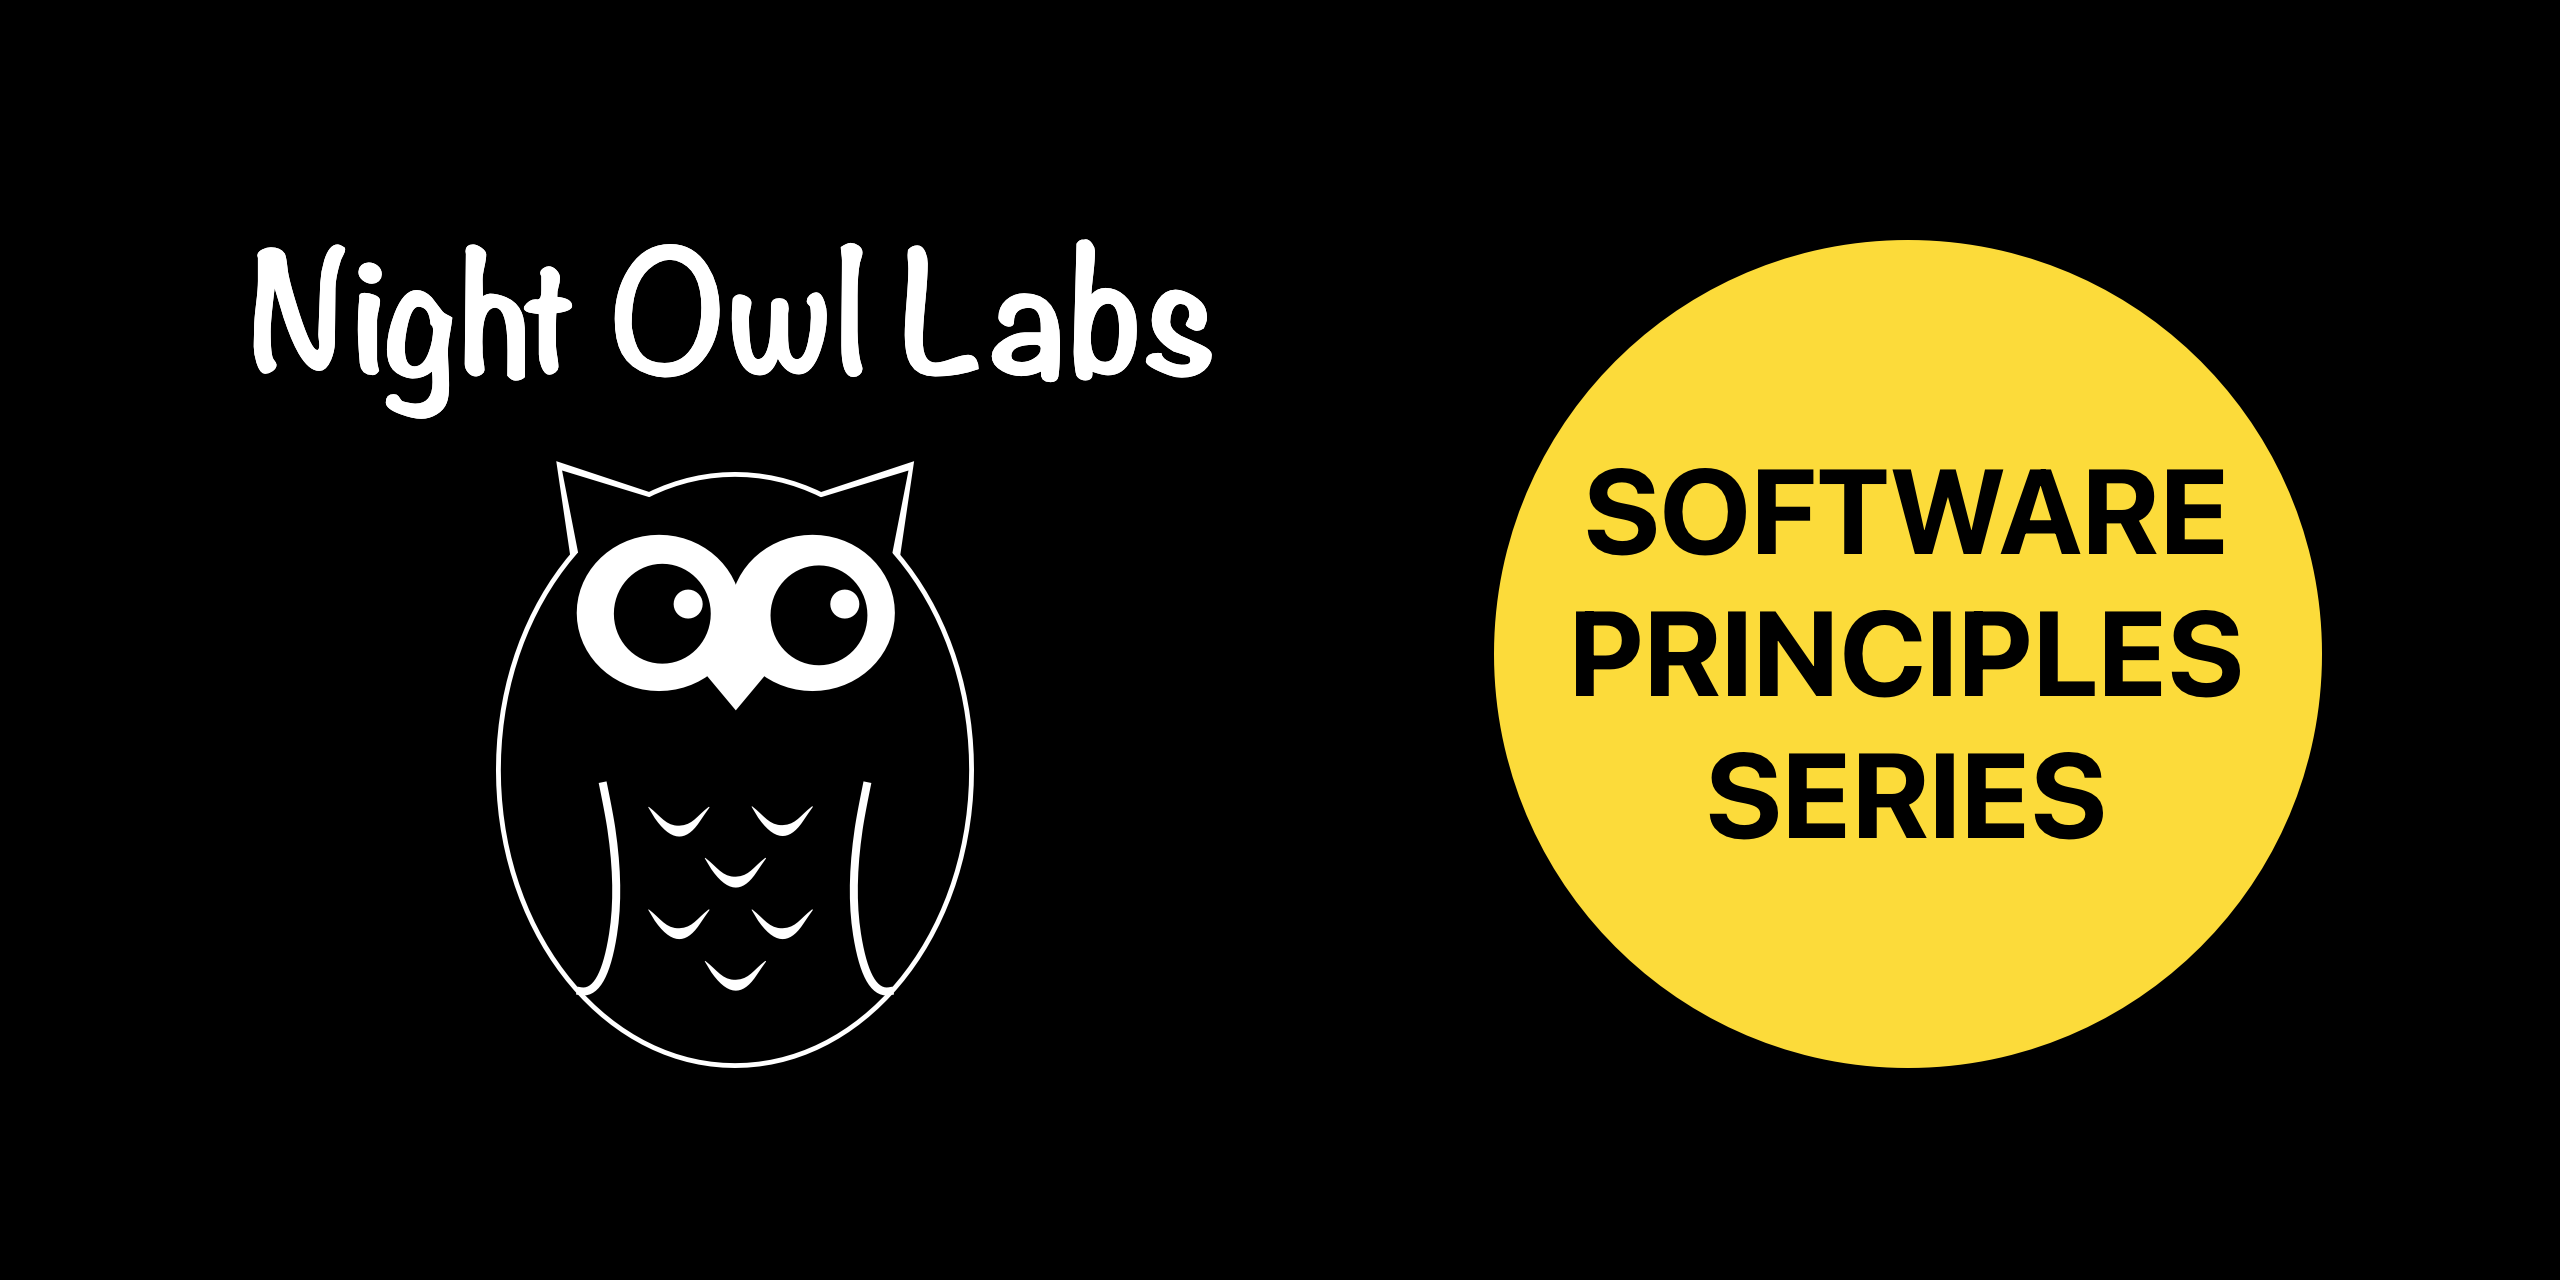
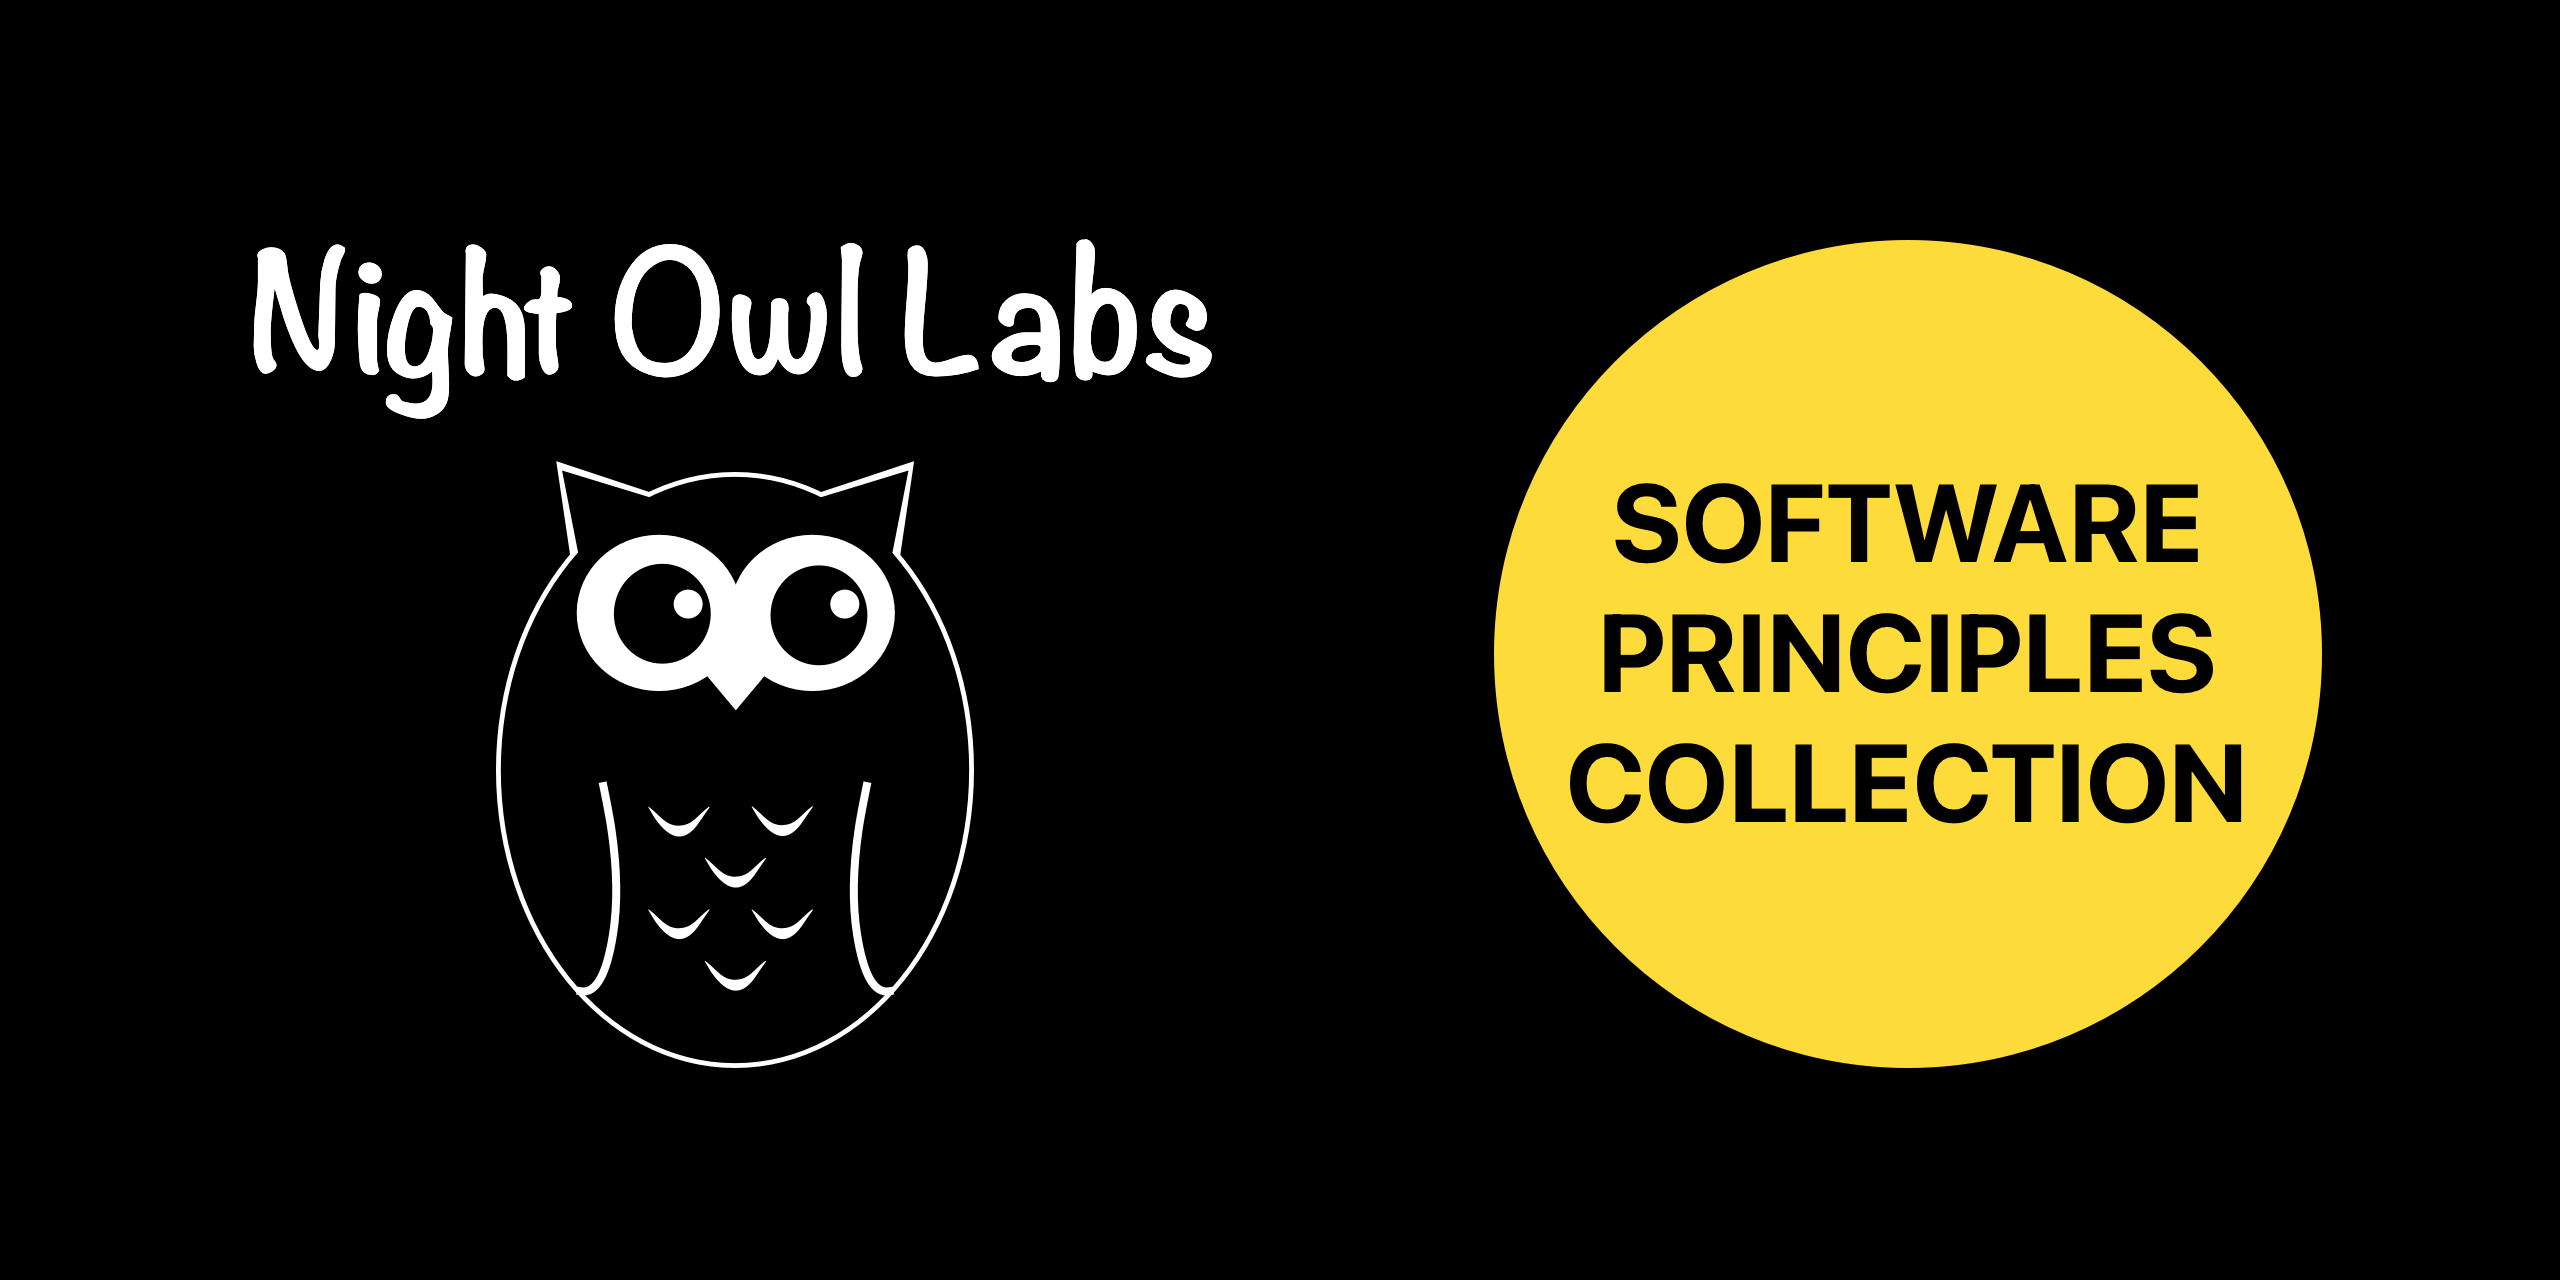
Update README

Changed region(s): [[0.5938, 0.4688, 0.875, 0.6562], [0.625, 0.3438, 0.875, 0.4375]]

diff --git a/README.md b/README.md
@@ -20,7 +20,7 @@
 
 <div align="center">
     <a href="https://github.com/Night-Owl-Labs/Software-Principles-Series" target="_blank">
-        <img src="./docs/images/series.png" width="500" />
+        <img src="./docs/images/banner_collection.png" width="500" />
     </a>
 </div>
 
